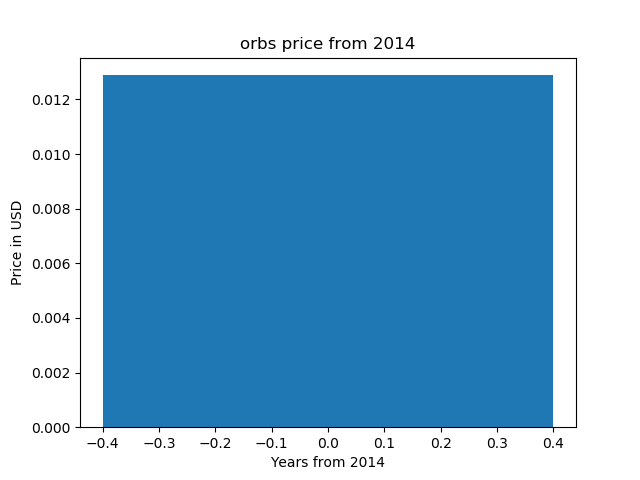
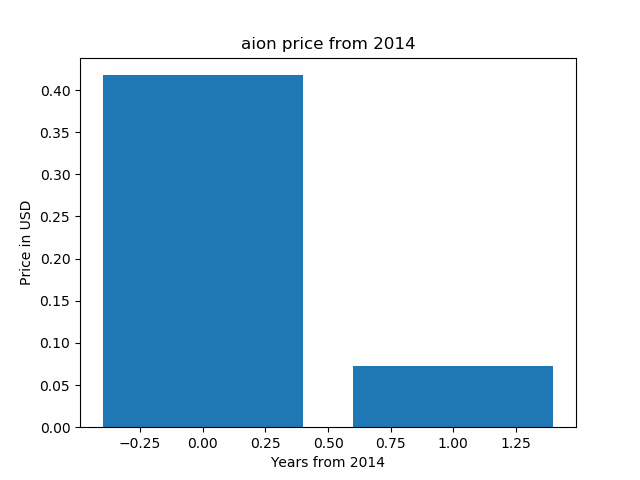
first commit

diff --git a/example.py b/example.py
@@ -10,7 +10,7 @@ from time import gmtime, strftime
 import matplotlib.pyplot as plt
 
 enddate = strftime("%Y%m%d", gmtime())
-r  = requests.get("https://coinmarketcap.com/currencies/orbs/historical-data/?start=20140101&end={0}".format(enddate))
+r  = requests.get("https://coinmarketcap.com/currencies/aion/historical-data/?start=20140101&end={0}".format(enddate))
 data = r.text
 
 soup = BeautifulSoup(data, "html.parser")
@@ -44,7 +44,7 @@ print(x)
 
 x = list(range(0, len(prices)))
 
-plt.title('orbs price from 2014')
+plt.title('aion price from 2014')
 plt.ylabel('Price in USD')
 plt.xlabel('Years from 2014')
 plt.bar(x, prices)

diff --git a/README.md b/README.md
@@ -1,6 +1,6 @@
-# orbs price chart 
+# aion price chart 
 
-orbs price chart (matplotlib, python)
+aion price chart (matplotlib, python)
 
 https://pythonprogramminglanguage.com
 
